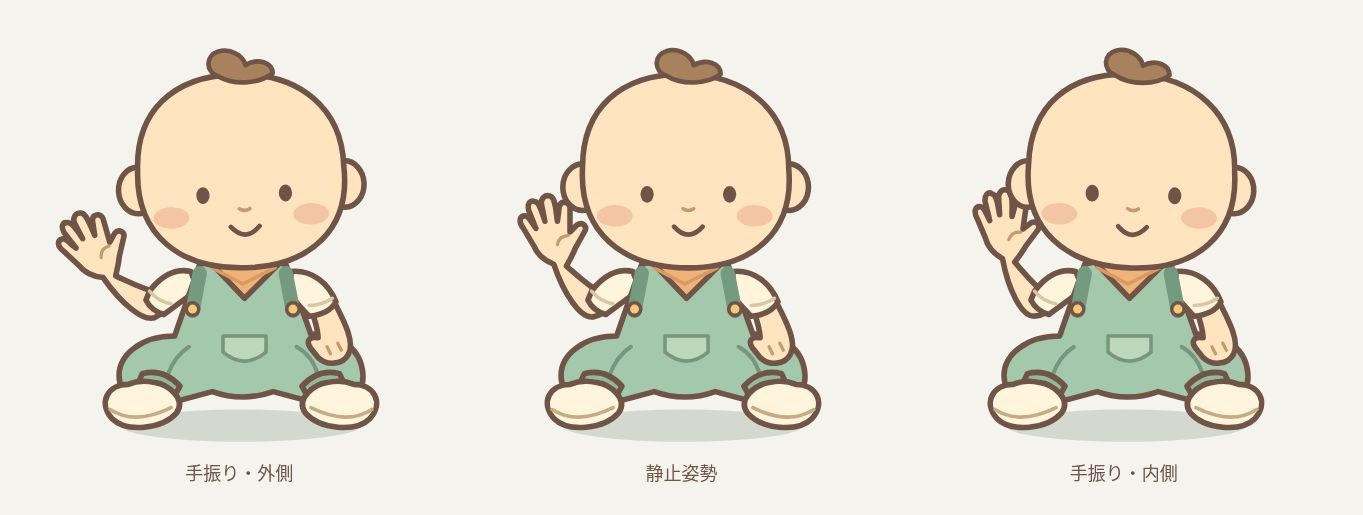
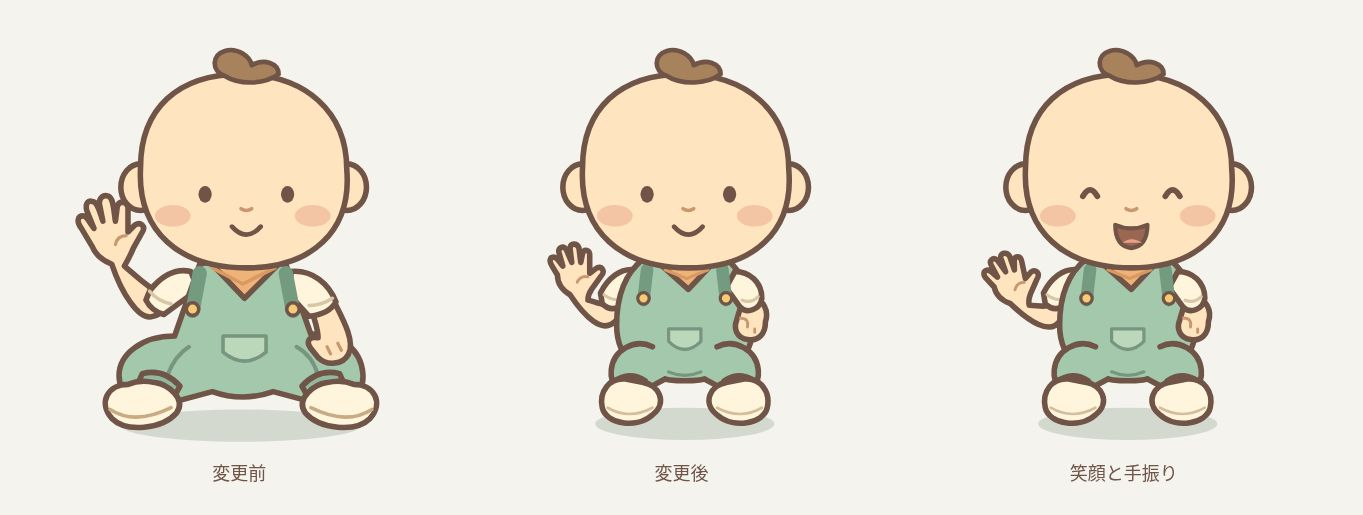
style(mascot): give baby softer compact proportions

diff --git a/apps/mobile/src/BabyMascot.tsx b/apps/mobile/src/BabyMascot.tsx
@@ -221,9 +221,9 @@ export function BabyMascot({ size = 150 }: { size?: number }) {
         accessible={false}
       >
         <Ellipse
-          cx={121}
-          cy={224}
-          rx={67}
+          cx={122}
+          cy={223}
+          rx={50}
           ry={9}
           fill="#345B40"
           opacity={0.17}
@@ -243,114 +243,130 @@ export function BabyMascot({ size = 150 }: { size?: number }) {
           testID="mascot-arm"
           style={{
             transform: [
-              { translateX: -47 * scale },
-              { translateY: 35 * scale },
+              { translateX: -39 * scale },
+              { translateY: 40 * scale },
               { rotate: armAngle },
-              { translateX: 47 * scale },
-              { translateY: -35 * scale },
+              { translateX: 39 * scale },
+              { translateY: -40 * scale },
             ],
           }}
         >
           <G {...line}>
-            {/* Four fingers and an inward-facing thumb, joined to a single palm. */}
+            {/* A small open palm and a short, rounded forearm share one outline. */}
             <Path
-              d="M49 134C44 132 40 129 38 124L32 114C29 110 30 107 33 107C35 107 36 110 39 114L35 104C34 100 36 98 38 99C41 99 42 104 44 110L42 100C42 97 44 95 47 96C50 97 50 104 51 110L52 102C53 98 57 99 58 102L58 116L62 112C65 110 68 113 66 116L61 125C59 130 57 133 56 135C63 141 69 147 77 151C81 155 78 162 72 163C64 166 54 149 49 134Z"
+              d="M58 151C53 148 51 144 51 140L48 135C46 132 47 130 49 130C51 130 52 133 54 135L52 128C51 125 54 123 56 126L59 133L58 125C58 122 62 122 63 125L64 133L65 128C66 125 69 126 69 129L69 139L73 136C76 135 78 138 75 141L70 148C68 151 68 153 68 154C73 155 77 158 81 155C87 155 88 162 83 166C76 173 66 163 58 151Z"
               fill={skin}
             />
             <Path
-              d="M57 118Q52 118 51 123"
+              d="M68 141Q64 140 62 144"
               fill="none"
               stroke="#C99770"
-              strokeWidth={1.8}
+              strokeWidth={1.6}
             />
           </G>
         </ArtLayer>
         <ArtLayer size={size}>
           <G {...line}>
-            {/* One short sleeve connects the raised forearm to its shoulder. */}
             <Path
-              d="M93 138C84 136 76 141 70 149L68 154Q71 160 78 162L97 148Z"
+              d="M94 137C86 136 79 142 75 150L76 156Q81 161 87 157L99 146Z"
               fill={cream}
             />
             <Path
-              d="M70 149Q75 155 82 156"
+              d="M77 151Q82 155 87 153"
               fill="none"
               stroke="#D8C7A6"
-              strokeWidth={2}
+              strokeWidth={1.8}
             />
-            <Path d="M109 128V143Q123 151 136 143V128" fill={skin} />
-            {/* The torso and both bent trouser legs share one continuous silhouette. */}
+            <Path d="M109 128V141Q123 148 136 141V128" fill={skin} />
+            {/* A round belly and tucked knees keep the body smaller than the head. */}
             <Path
-              d="M98 134Q122 127 146 134L160 173C177 172 188 182 189 195C190 207 179 215 165 212L139 205Q122 211 105 205L79 212C65 215 53 207 53 196C53 184 66 174 84 174Z"
+              d="M99 131C90 138 84 150 84 168C84 188 99 199 122 199C145 199 160 188 160 168C160 150 154 138 145 131Z"
               fill={green}
             />
             <Path
-              d="M92 180Q84 185 80 196M152 180Q161 185 164 196"
+              d="M104 180C94 175 82 182 81 193C80 202 87 208 98 205L111 198"
+              fill={green}
+            />
+            <Path
+              d="M140 180C150 175 162 182 163 193C164 202 157 208 146 205L133 198"
+              fill={green}
+            />
+            <Path
+              d="M113 194Q122 198 131 194"
               fill="none"
               stroke="#789580"
-              strokeWidth={2.2}
+              strokeWidth={1.8}
             />
-            {/* The other arm rests alongside the body, with its hand over the knee. */}
+            {/* The relaxed arm is equally short and plump, with a small curled hand. */}
             <Path
-              d="M159 156C162 164 164 170 164 175C159 174 157 177 160 181L164 186C169 191 178 190 181 184C185 177 177 163 173 155Z"
+              d="M159 153C166 153 169 160 167 166C167 173 163 177 157 176C151 175 149 170 151 165L154 155Z"
               fill={skin}
             />
             <Path
-              d="M149 138C161 137 170 145 174 155Q170 162 159 163L148 151Z"
+              d="M150 138C158 138 165 144 165 153C164 159 157 162 153 158L145 147Z"
               fill={cream}
             />
             <Path
-              d="M159 157Q166 157 172 153"
+              d="M154 154Q159 156 163 152"
               fill="none"
               stroke="#D8C7A6"
-              strokeWidth={2}
-            />
-            <Path
-              d="M169 180L171 184M175 178L177 182"
-              fill="none"
-              stroke="#C99770"
               strokeWidth={1.8}
             />
             <Path
-              d="M98 139L94 160M146 139L150 160"
+              d="M153 164Q158 164 157 169M161 170L161 172"
+              fill="none"
+              stroke="#C99770"
+              strokeWidth={1.6}
+            />
+            <Path
+              d="M101 137L99 154M143 137L145 154"
               fill="none"
               stroke="#749A80"
-              strokeWidth={8}
+              strokeWidth={7}
             />
-            <Circle cx={94} cy={159} r={3.5} fill="#F5CB77" strokeWidth={2} />
-            <Circle cx={150} cy={159} r={3.5} fill="#F5CB77" strokeWidth={2} />
+            <Circle cx={99} cy={153} r={3.2} fill="#F5CB77" strokeWidth={1.8} />
+            <Circle
+              cx={145}
+              cy={153}
+              r={3.2}
+              fill="#F5CB77"
+              strokeWidth={1.8}
+            />
             <Path
-              d="M111 174H135V183Q123 193 111 183Z"
+              d="M113 170H131V177Q122 186 113 177Z"
               fill="#BBD8BB"
               stroke="#789580"
-              strokeWidth={2}
+              strokeWidth={1.8}
             />
-            <Path d="M101 130Q121 141 146 130L123 153Z" fill="#EFB278" />
+            <Path d="M105 131Q122 140 140 131L124 148Z" fill="#EFB278" />
             <Path
-              d="M105 136L122 145L140 136"
+              d="M111 137L123 142L135 137"
               stroke="#D99962"
-              strokeWidth={2}
+              strokeWidth={1.8}
               fill="none"
             />
-            {/* Short cuffs overlap the shoes, with both soles on the same ground plane. */}
-            <Path d="M66 195Q78 192 87 202L82 211L61 206Z" fill="#92B89D" />
+            {/* Soft booties sit directly beneath the bent knees, close to the belly. */}
             <Path
-              d="M176 195Q164 192 155 202L160 211L181 206Z"
+              d="M85 198Q92 194 100 199L103 204Q93 207 84 204Z"
               fill="#92B89D"
             />
             <Path
-              d="M58 201C47 201 41 211 49 220C57 228 77 226 85 217C91 209 80 201 73 200Q65 198 58 201Z"
+              d="M159 198Q152 194 144 199L141 204Q151 207 160 204Z"
+              fill="#92B89D"
+            />
+            <Path
+              d="M89 198C80 197 74 205 76 214C78 223 95 226 104 218C113 211 107 201 99 200Z"
               fill={cream}
             />
             <Path
-              d="M184 201C195 201 201 211 193 220C185 228 165 226 157 217C151 209 162 201 169 200Q177 198 184 201Z"
+              d="M155 198C164 197 170 205 168 214C166 223 149 226 140 218C131 211 137 201 145 200Z"
               fill={cream}
             />
             <Path
-              d="M48 215Q62 224 82 214M160 214Q180 224 194 215"
+              d="M79 214Q91 221 104 214M140 214Q153 221 165 214"
               fill="none"
-              stroke="#C8AB83"
-              strokeWidth={2}
+              stroke="#D4BE9B"
+              strokeWidth={1.5}
             />
           </G>
         </ArtLayer>

diff --git a/apps/mobile/assets/game/README.md b/apps/mobile/assets/game/README.md
@@ -8,7 +8,7 @@ Create a landscape 3:2 background for a cozy native mobile learning RPG, a usabl
 
 ## Illustrated character
 
-The current character is drawn in `apps/mobile/src/BabyMascot.tsx`, using the same React Native SVG / Animated components as the existing profile avatar. It is a native vector illustration with warm outlines, small dot eyes, soft colors and separate body, waving forearm, head and eyelid layers. The raised arm bends at a covered elbow, the hand has four fingers and an inward-facing thumb, and the seated torso and trouser legs share a continuous silhouette. The forearm pivots at the elbow and the head at the neck to keep their attachments stable during motion. It replaces the earlier rendered baby image.
+The current character is drawn in `apps/mobile/src/BabyMascot.tsx`, using the same React Native SVG / Animated components as the existing profile avatar. It is a native vector illustration with warm outlines, small dot eyes, soft colors and separate body, waving forearm, head and eyelid layers. The raised arm bends at a covered elbow, the hand has four fingers and an inward-facing thumb, and the seated body has a round belly, tucked knees, small soft booties and short, plump limbs. The body is narrower than the head and both palms are kept small to give the mascot infant proportions. The forearm pivots at the elbow and the head at the neck to keep their attachments stable during motion. It replaces the earlier rendered baby image.
 
 Idle motion includes gentle breathing, head movement, occasional hand waving and blinks. Tapping the character produces a brief smile, wave and “Hello!” greeting. Motion stops when the home screen loses focus or the app goes into the background. The system's Reduce Motion preference disables movement while preserving the greeting response.
 
